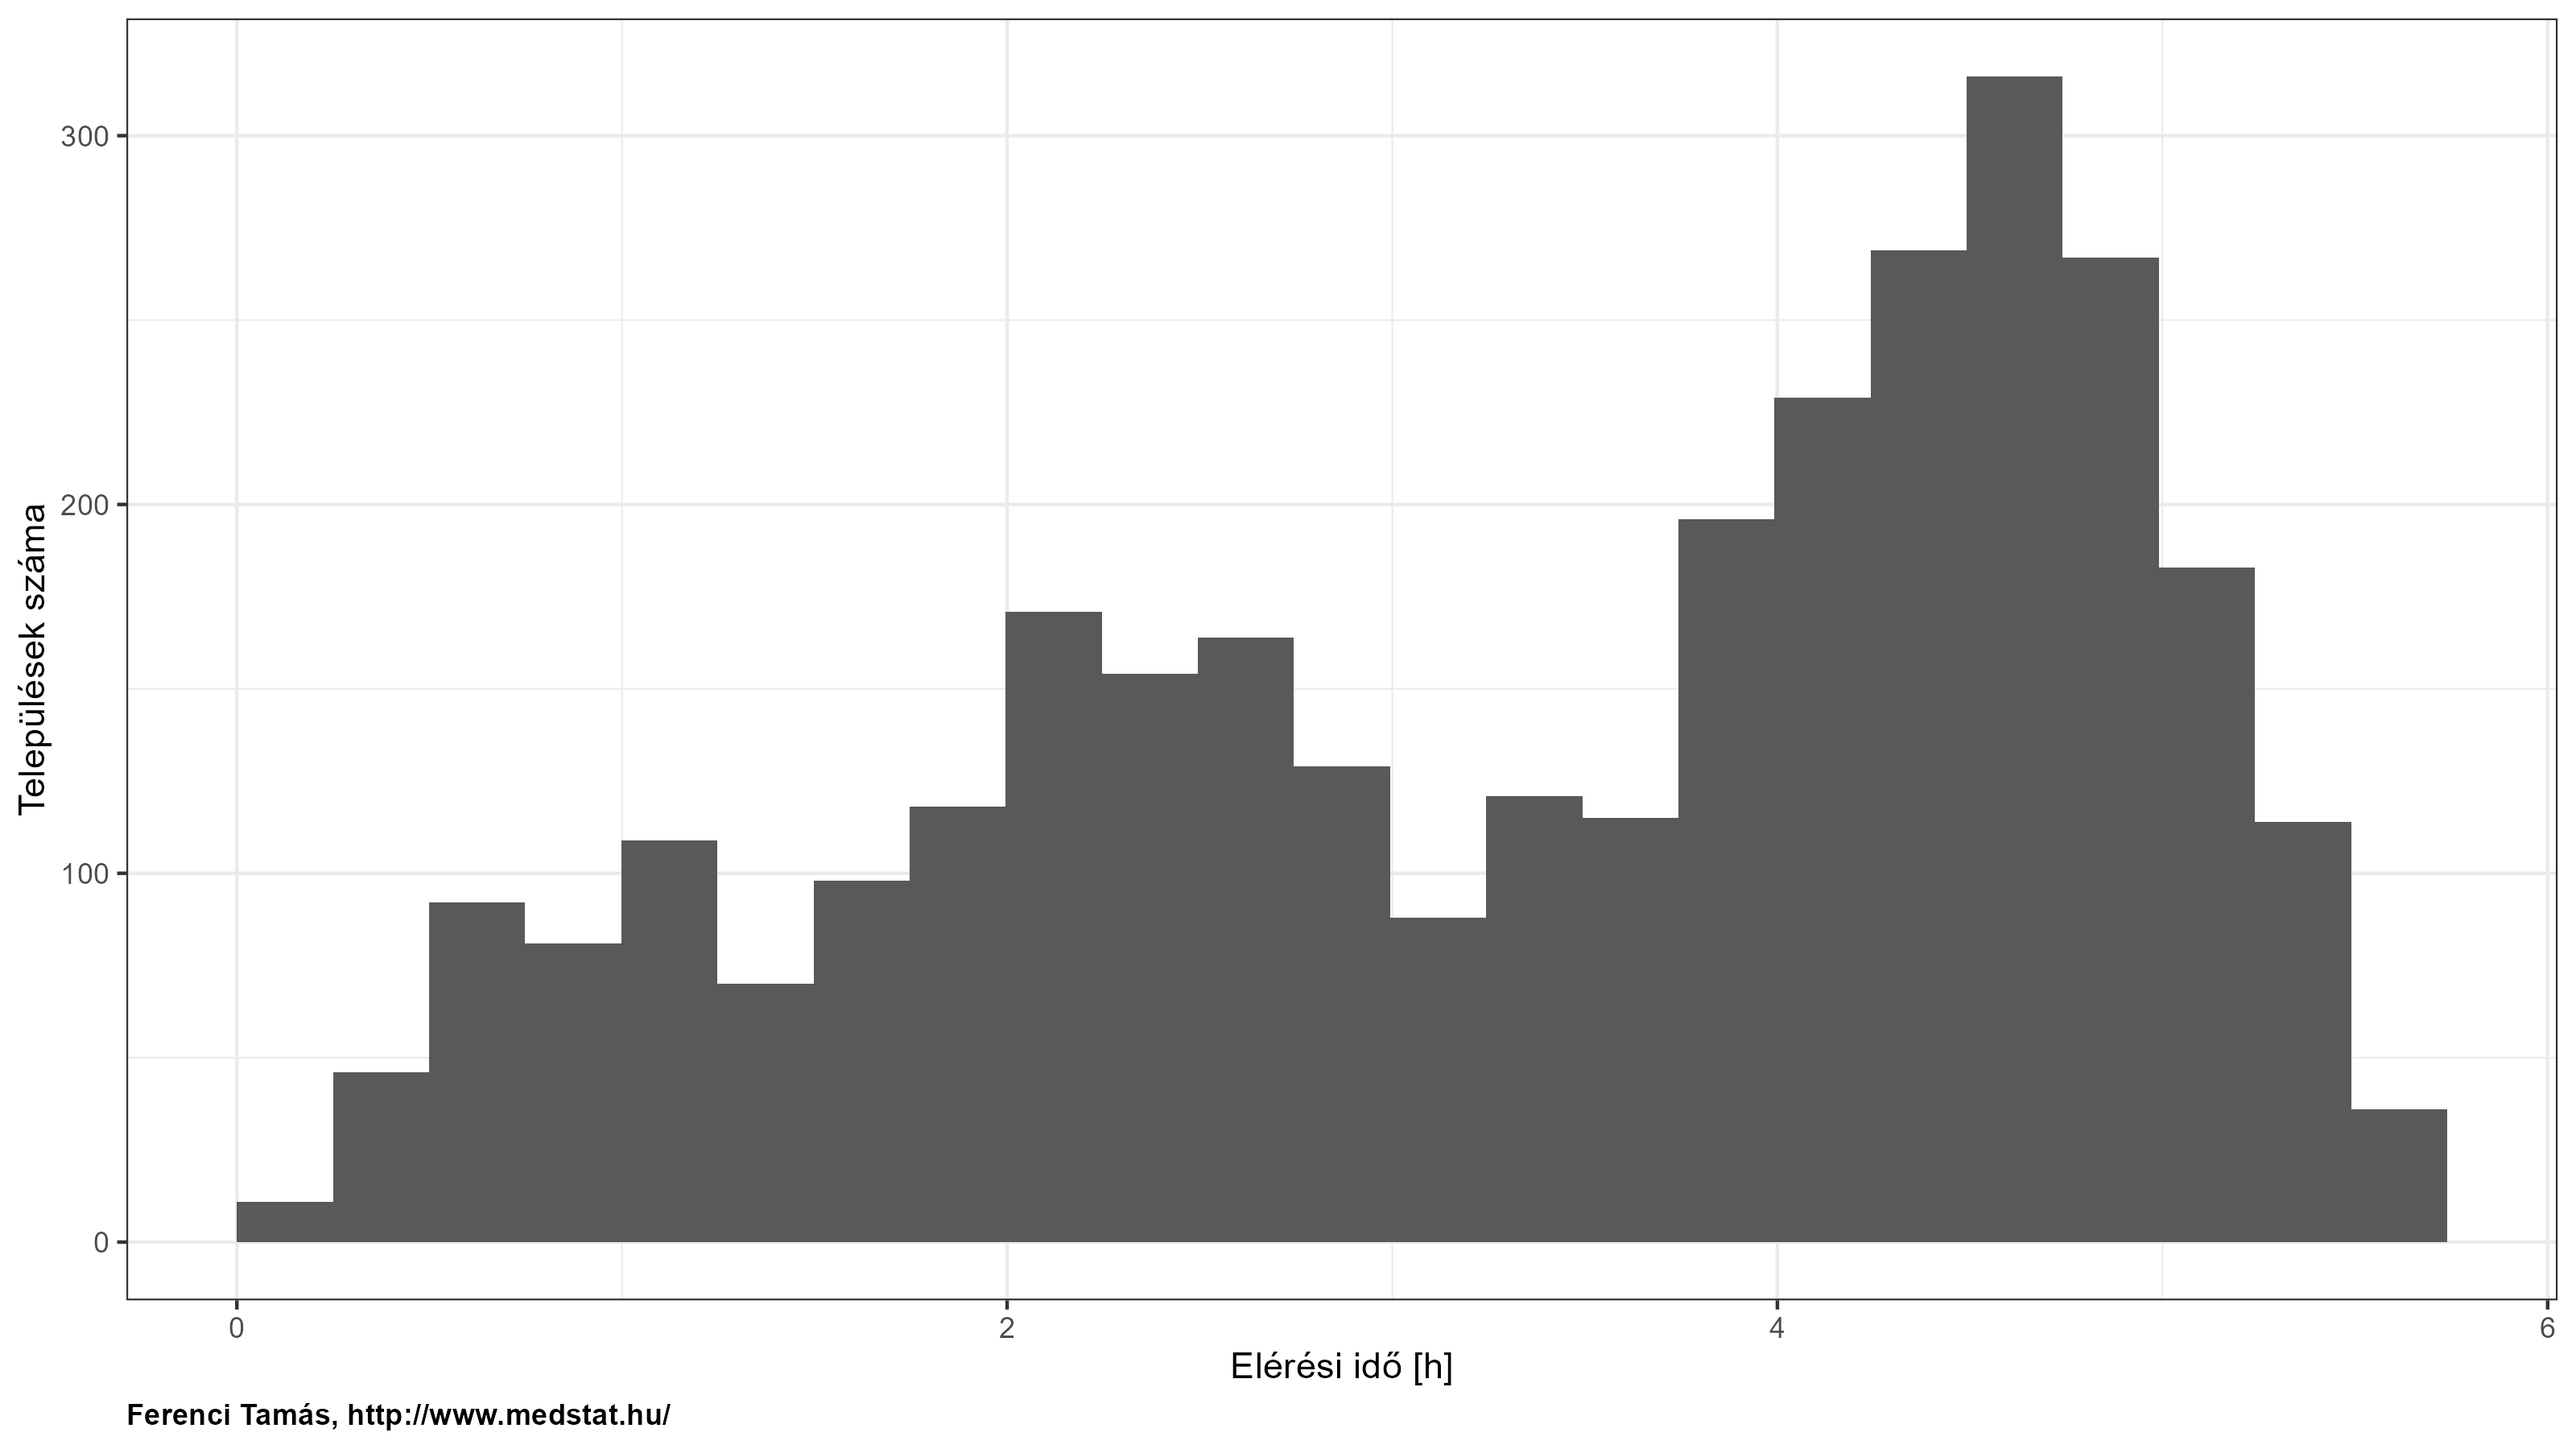
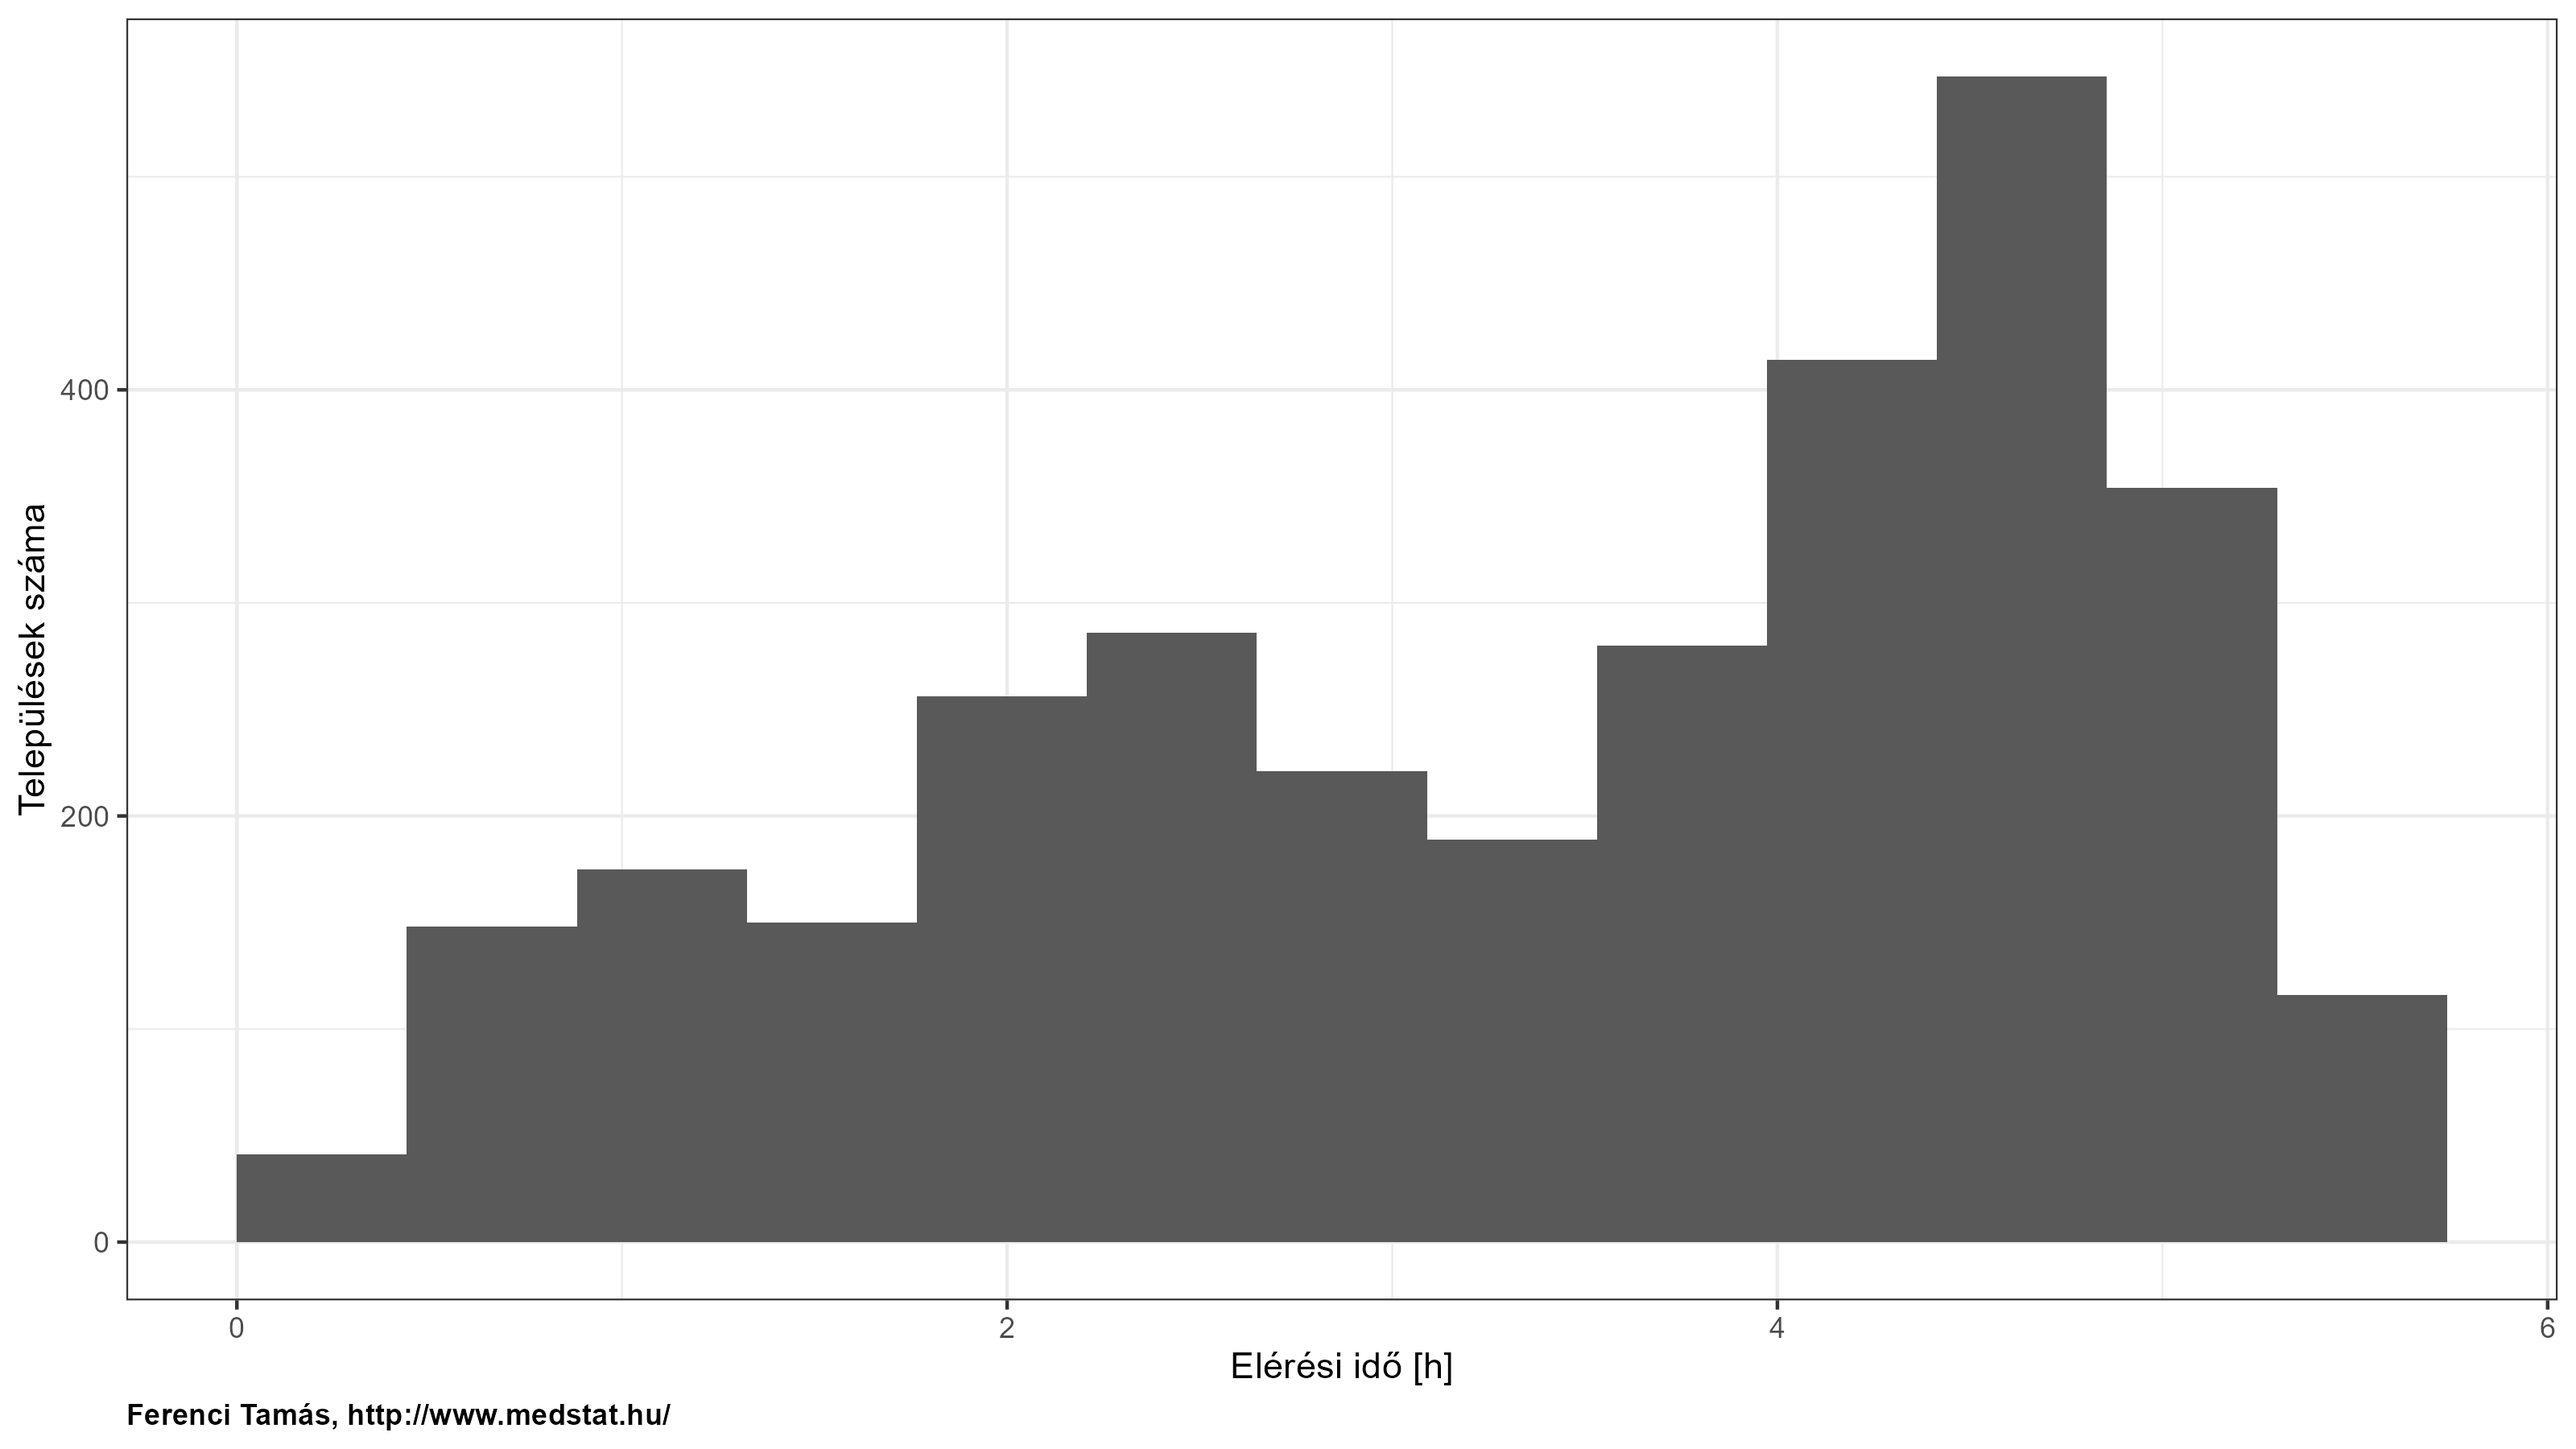
A korhazplots.rds kiküszöbölése.

diff --git a/README.md b/README.md
@@ -622,29 +622,30 @@ interpolációt készíteni, és az alapján behúzni az izokrón vonalakat:
 contourplotter <- function(datain, geodatain, lab, telepules = NA, hascontour = FALSE, title = "",
                            filllims = NULL) {
   telepulescontour <- datain[, with(akima::interp(X, Y, value, nx = 1000, ny = 1000),
-                                    cbind(CJ(Y = y, X = x), value = c(z))[!is.na(value)])]
-  telepulescontour <- telepulescontour[sapply(st_intersects(st_as_sf(telepulescontour,
+                                    cbind(data.table::CJ(Y = y, X = x), value = c(z))[!is.na(value)])]
+  telepulescontour <- telepulescontour[sapply(sf::st_intersects(sf::st_as_sf(telepulescontour,
                                                                      coords = c("X", "Y"),
-                                                                     crs = st_crs(geodatain)),
+                                                                     crs = sf::st_crs(geodatain)),
                                                             geodatain), length)==1]
   
   telepulescontour2 <- datain[, with(akima::interp(X, Y, value, nx = 40, ny = 40),
-                                     cbind(CJ(Y = y, X = x), value = c(z))[!is.na(value)])]
-  telepulescontour2 <- telepulescontour2[sapply(st_intersects(st_as_sf(telepulescontour2,
+                                     cbind(data.table::CJ(Y = y, X = x), value = c(z))[!is.na(value)])]
+  telepulescontour2 <- telepulescontour2[sapply(sf::st_intersects(sf::st_as_sf(telepulescontour2,
                                                                        coords = c("X", "Y"),
-                                                                       crs = st_crs(geodatain)),
+                                                                       crs = sf::st_crs(geodatain)),
                                                               geodatain), length)==1]
   
-  ggplot(telepulescontour, aes(x = X, y = Y)) + geom_raster(aes(fill = value)) +
-    {if(!is.na(telepules)) stat_sf_coordinates(data = geodatain[geodatain$NAME==telepules,],
+  ggplot2::ggplot(telepulescontour, ggplot2::aes(x = X, y = Y)) +
+    ggplot2::geom_raster(ggplot2::aes(fill = value)) +
+    {if(!is.na(telepules)) ggplot2::stat_sf_coordinates(data = geodatain[geodatain$NAME==telepules,],
                                                inherit.aes = FALSE, color = "red")} +
-    {if(hascontour) metR::geom_contour2(data = telepulescontour2, aes(x = X, y = Y, z = value,
+    {if(hascontour) metR::geom_contour2(data = telepulescontour2, ggplot2::aes(x = X, y = Y, z = value,
                                                                       label = after_stat(level)),
                                         inherit.aes = FALSE, breaks = 1:10, skip = 0, color = "red")} +
-    labs(x = "", y = "", fill = lab, caption = captionlab, title = title) +
-    {if(!is.null(filllims)) scale_fill_gradient(limits = filllims)} +
-    metR::scale_x_longitude(ticks = 1, expand = waiver()) +
-    metR::scale_y_latitude(ticks = 0.5, expand = waiver())
+    ggplot2::labs(x = "", y = "", fill = lab, caption = captionlab, title = title) +
+    {if(!is.null(filllims)) ggplot2::scale_fill_gradient(limits = filllims)} +
+    metR::scale_x_longitude(ticks = 1, expand = ggplot2::waiver()) +
+    metR::scale_y_latitude(ticks = 0.5, expand = ggplot2::waiver())
 }
 contourplotter(merge(durationsLong[Var1=="Csobád", .(NAME = Var2, value = Duration)], locs), geodata,
                "Eljutási idő [h]", "Csobád", TRUE)
@@ -992,7 +993,7 @@ vesszük ki, és vizsgáljuk meg.) Például Csobád esetében ez így néz ki:
 
 ``` r
 ggplot(durationsLong[Var1=="Csobád"], aes(x = Duration)) +
-  geom_histogram(boundary = 0, bins = ceiling(log2(nrow(durationsLong[Var2 > Var1])))+1) +
+  geom_histogram(boundary = 0, binwidth = function(x) diff(range(x)) / nclass.Sturges(x)) +
   scale_y_continuous(label = scales::comma) +
   labs(x = "Elérési idő [h]", y = "Települések száma", caption = captionlab)
 ```
@@ -1429,7 +1430,7 @@ kórházat amikor több kórházas optimumot keresünk):
 kkorhazplot <- function(result, k) {
   optlocs <- sapply(LocationResult, function(x)
     HNTdata[JarasInd,][x$sol[(m*n+1):(m*n+n)]==1, ]$Helység.megnevezése)
-  p <- contourplotter(merge(melt(
+  p <- contourplotter(merge(data.table::melt(
     Reduce(function(...) merge(..., by = "NAME"), lapply(1:k, function(i)
       setNames(durationsLong[Var1==HNTdata[JarasInd,][which(
         result[[k]]$sol[(m*n+1):(m*n+n)]==1),]$Helység.megnevezése[i],
@@ -1437,15 +1438,18 @@ kkorhazplot <- function(result, k) {
     id.vars = "NAME")[, .(value = min(value)) , .(NAME)], locs), geodata,
     "Súlyozott eljutási idő,\nlegközelebbi kórház [h]", title = paste0(k, " kórházas megoldás"),
     filllims = c(0, 4))
-  for(i in 1:k) p <- p + stat_sf_coordinates(data = geodata[geodata$NAME==optlocs[[k]][i],],
+  for(i in 1:k) p <- p + ggplot2::stat_sf_coordinates(data = geodata[geodata$NAME==optlocs[[k]][i],],
                                              inherit.aes = FALSE, color = "red")
   p
 }
 
-if(!file.exists("korhazplots.rds")) {
-  korhazplots <- lapply(1:length(LocationResult), function(k) kkorhazplot(LocationResult, k))
-  saveRDS(korhazplots, "korhazplots.rds")
-} else korhazplots <- readRDS("korhazplots.rds")
+cl <- parallel::makeCluster(parallelly::availableCores(omit = 1))
+parallel::clusterExport(cl, c("kkorhazplot", "LocationResult", "HNTdata", "JarasInd", "m", "n",
+                              "contourplotter", "durationsLong", "locs", "geodata", "captionlab"))
+
+korhazplots <- parallel::parLapply(cl, 1:length(LocationResult), function(k) kkorhazplot(LocationResult, k))
+
+parallel::stopCluster(cl)
 
 korhazbars <- lapply(1:length(LocationResult), function(k)
   ggplot(data.frame(y = sapply(LocationResult, function(x) x$obj/sum(HNTdata$Lakó.népesség))[k]),
@@ -2039,14 +2043,16 @@ knitr::kable(head(locs))
 
 ### Az OSRM letöltése és telepítése
 
-Az OSRM installálásának a részletei a
-<https://github.com/Project-OSRM/osrm-backend/wiki/Building-OSRM> címen
-elérhetőek. Tételesen, Ubuntu 20.04.4 alatt a következő parancsokat kell
-lefuttatni:
+Az OSRM installálásának a részletei a projekt
+[Github-oldalán](https://github.com/Project-OSRM/osrm-backend?tab=readme-ov-file#building-from-source)
+és [Github
+wiki-jén](https://github.com/Project-OSRM/osrm-backend/wiki/Building-OSRM)
+címen elérhetőek. Tételesen, Ubuntu 22.04 alatt a következő parancsokat
+kell lefuttatni:
 
     sudo apt install build-essential git cmake pkg-config \
-    libbz2-dev libstxxl-dev libstxxl1v5 libxml2-dev \
-    libzip-dev libboost-all-dev lua5.2 liblua5.2-dev libtbb-dev
+    libbz2-dev libxml2-dev libzip-dev libboost-all-dev \
+    lua5.2 liblua5.2-dev libtbb-dev
 
 Ezt követően szükség van a [node.js](https://nodejs.org/) környezet
 installálására is. Arra figyelni kell, hogy olyan verziót telepítsünk,
